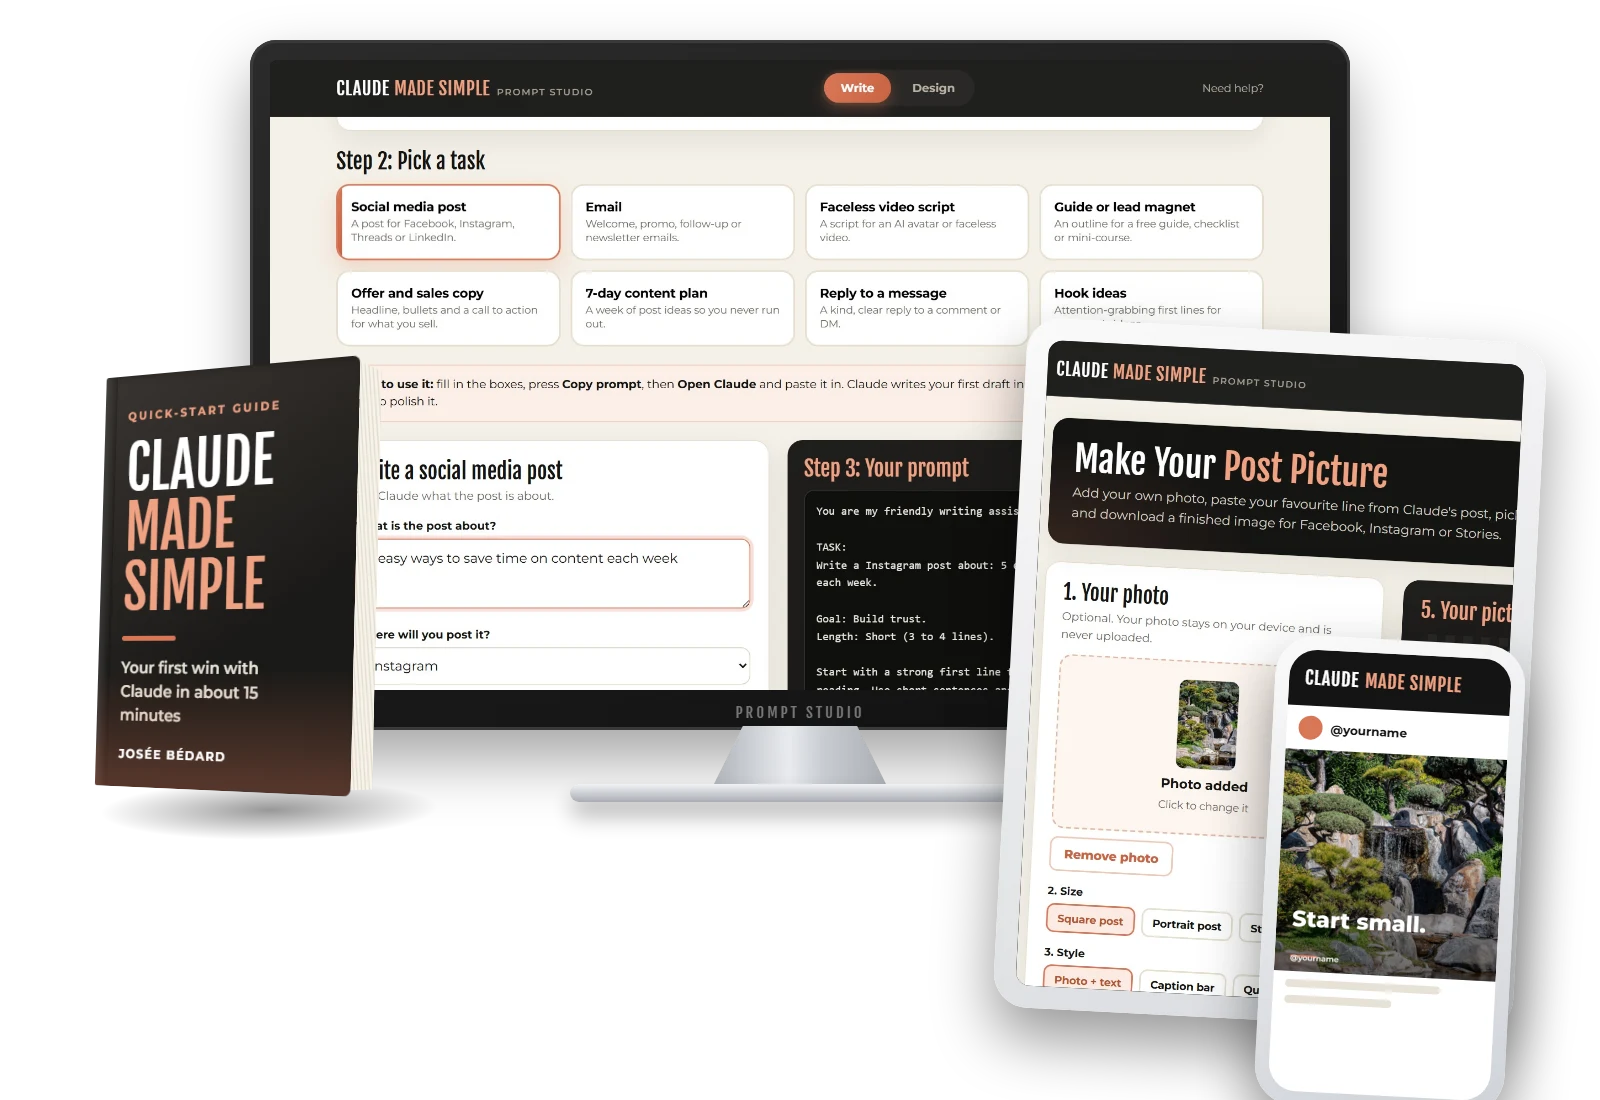
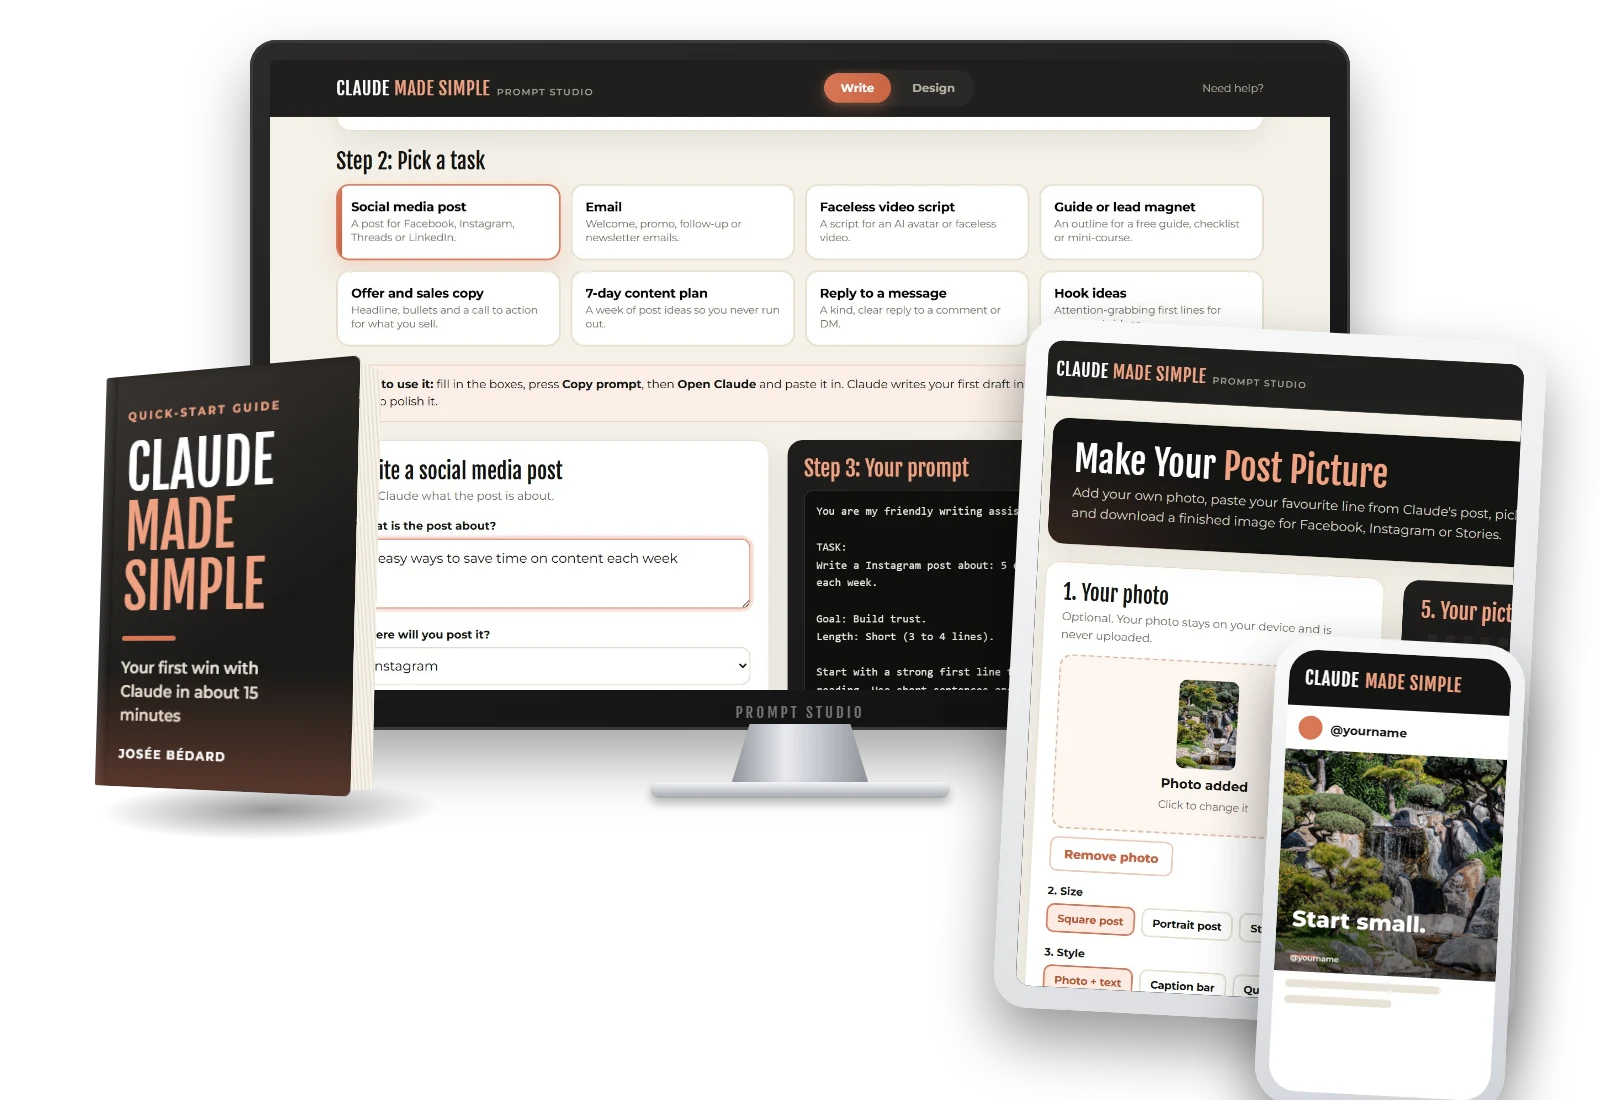
Mockup: cleaner centred monitor stand

Changed region(s): [[0.3438, 0.6491, 0.625, 0.7727]]

diff --git a/wp/promptstudio/index.html b/wp/promptstudio/index.html
@@ -258,7 +258,7 @@ footer a{color:var(--gold)}
     <div class="pcard">
       <div class="hurry">One-time payment. Instant access.</div>
       <div class="redbar">Just $9 &mdash; no subscription</div>
-      <img src="/wp/img/mockup.webp?v=4" alt="Claude Made Simple: Prompt Studio on desktop, tablet and phone" width="1600" height="1100" style="width:100%;height:auto;display:block;margin:4px 0 8px">
+      <img src="/wp/img/mockup.webp?v=5" alt="Claude Made Simple: Prompt Studio on desktop, tablet and phone" width="1600" height="1100" style="width:100%;height:auto;display:block;margin:4px 0 8px">
       <div class="pprice">Just $9</div>
       <div style="font-size:16px">Delivered instantly. Start using it right now!</div>
       <!-- BUY BUTTON (hero): paste your Warrior+ buy button code here -->
@@ -525,7 +525,7 @@ footer a{color:var(--gold)}
       <h2>Why Is The Price <span class="gold">So Low?</span></h2>
       <p class="lead">I'd rather make it easy to get started and let the tool prove its value. It's a small, simple product, and the price shows that.</p>
       <div class="offer reveal">
-        <img src="/wp/img/mockup.webp?v=4" alt="What you get: Claude Made Simple Prompt Studio" width="1600" height="1100" style="width:100%;max-width:560px;height:auto;display:block;margin:0 auto 14px" loading="lazy"><span class="eyebrow">Your price</span>
+        <img src="/wp/img/mockup.webp?v=5" alt="What you get: Claude Made Simple Prompt Studio" width="1600" height="1100" style="width:100%;max-width:560px;height:auto;display:block;margin:0 auto 14px" loading="lazy"><span class="eyebrow">Your price</span>
         <div class="price gold">$9</div>
         <div class="micro">One-time payment. No subscription.</div>
         <ul class="ticks tl">
